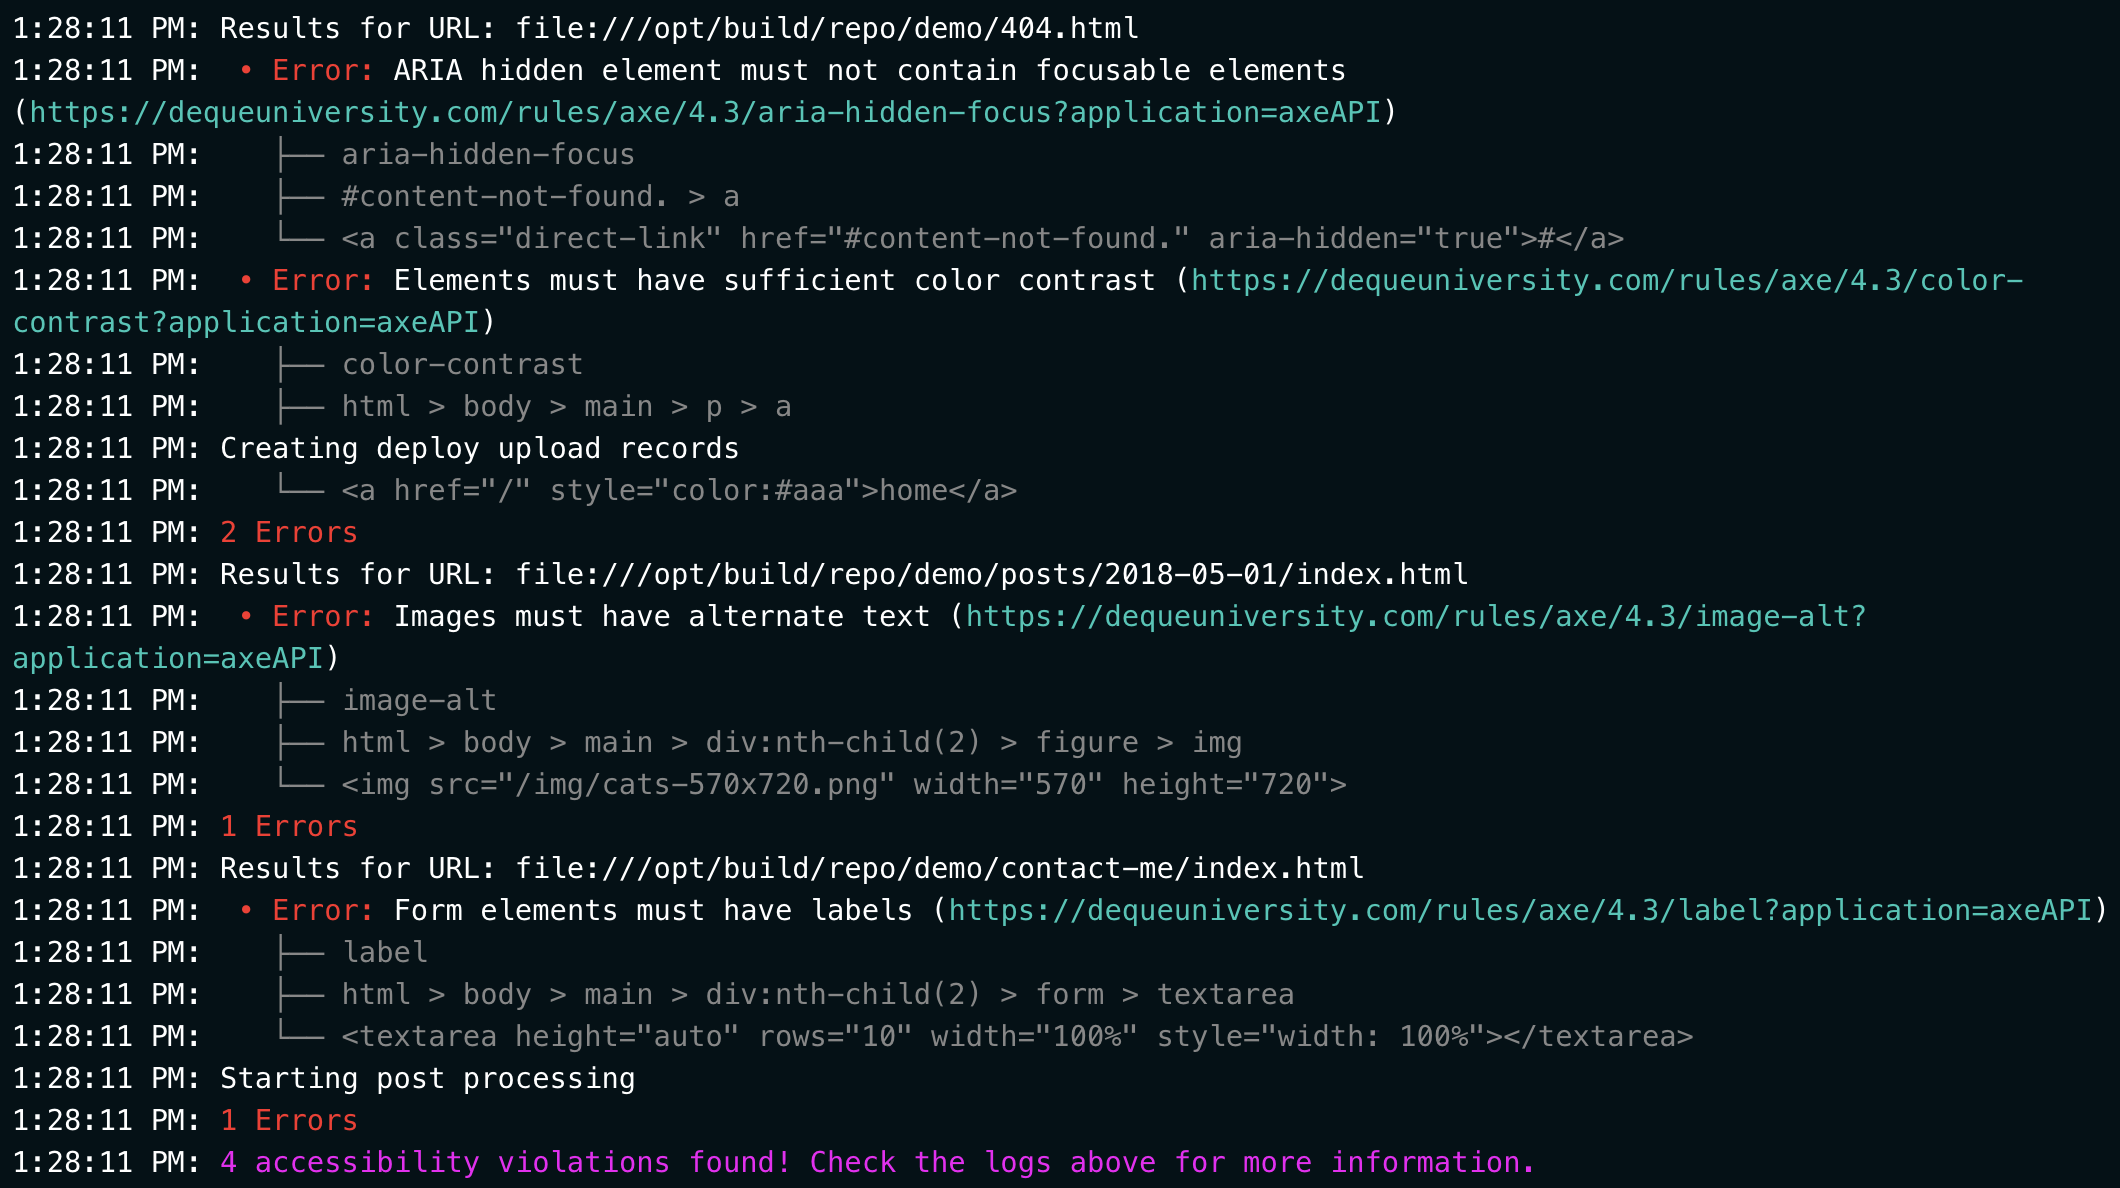
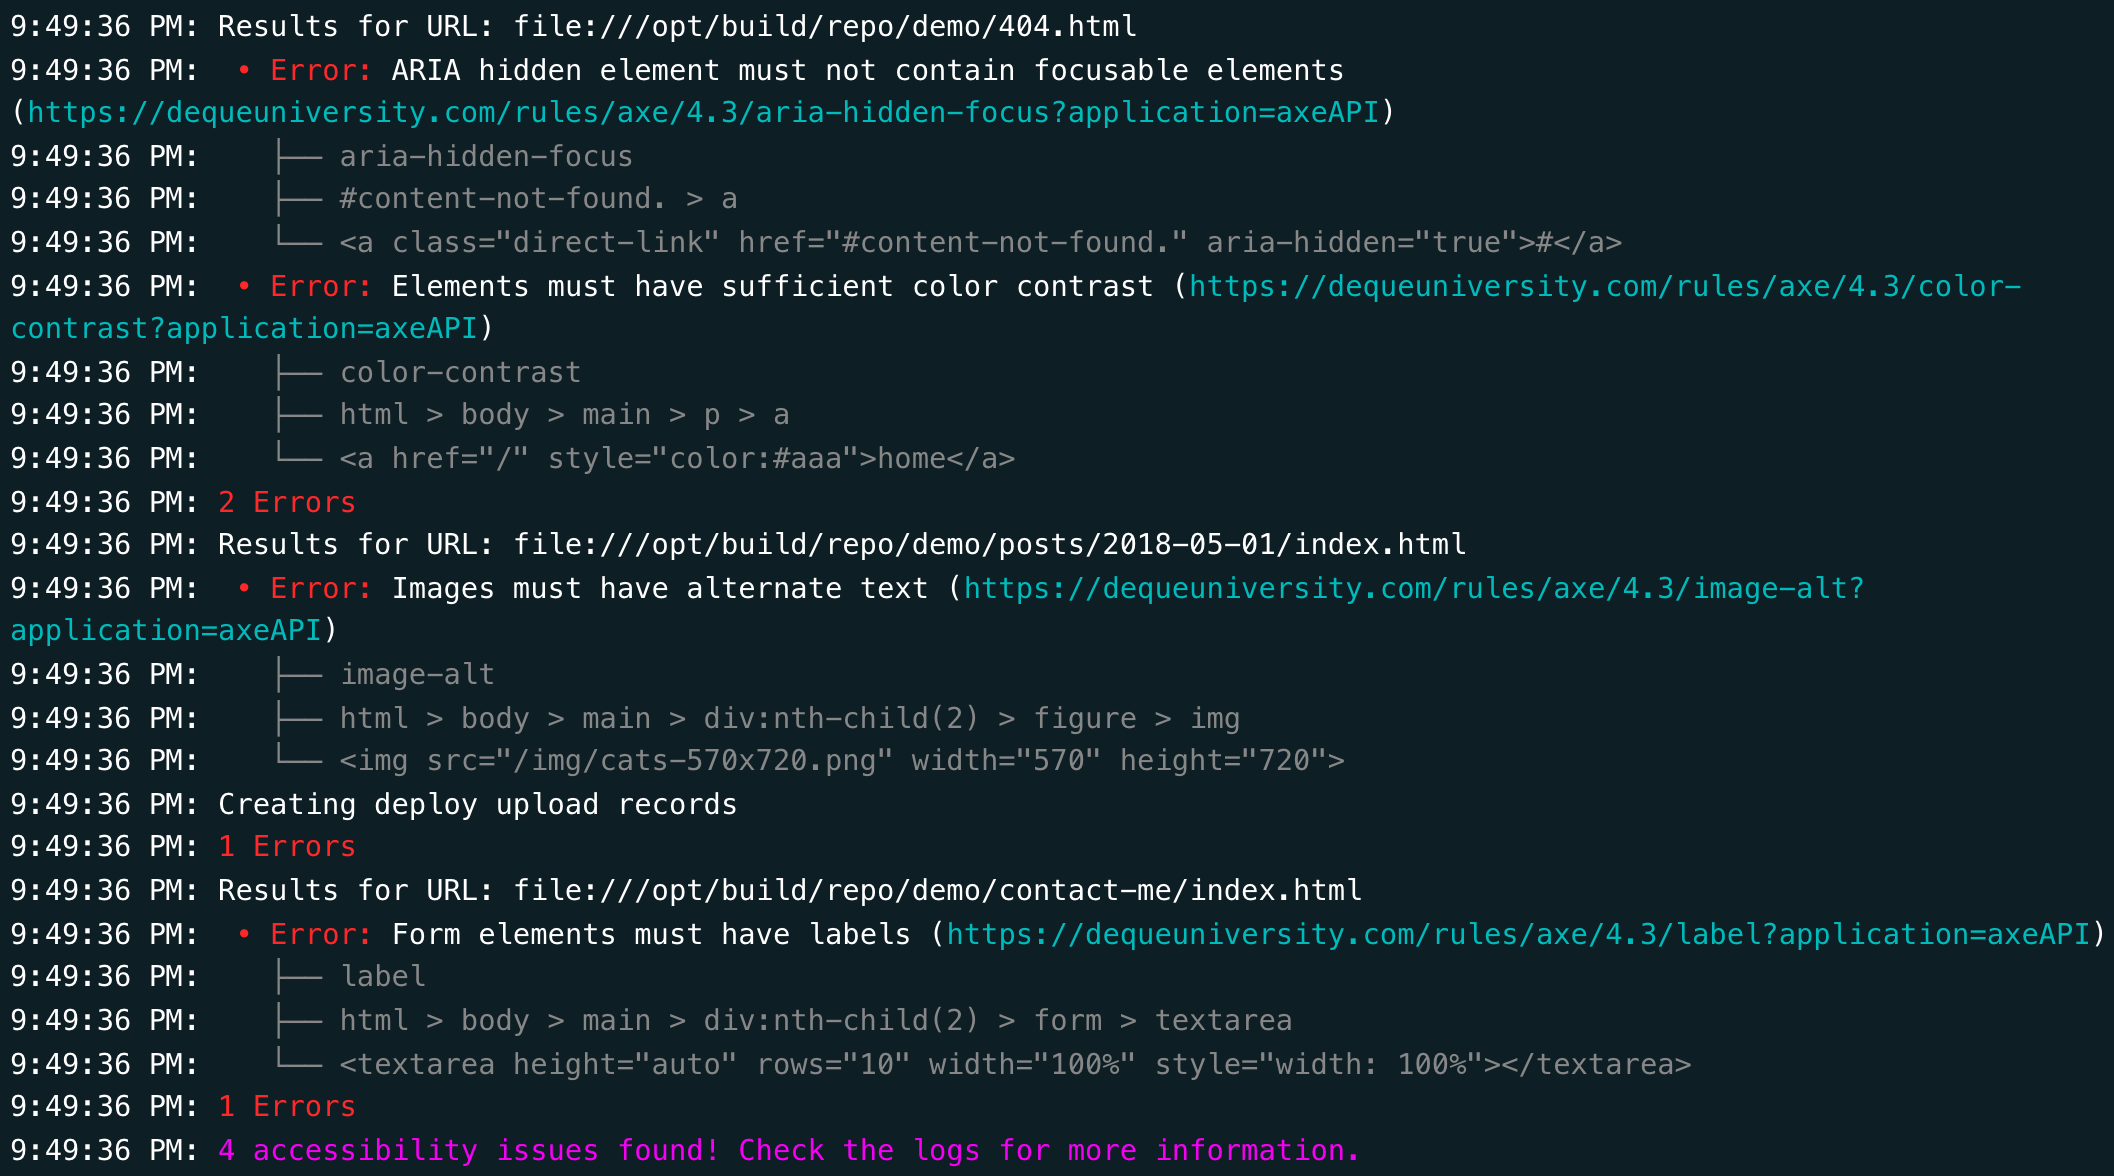
Update log screenshot and text copy

Changed region(s): [[0.0, 0.0, 0.9991, 1.0]]

diff --git a/README.md b/README.md
@@ -29,32 +29,31 @@ This is a screenshot of the build log for the demo site:
 <details>
 	<summary>Text from screnshot of demo site build log</summary>
 
-``` bash
- Results for URL: file:///opt/build/repo/demo/404.html
-1:28:11 PM:  • Error: ARIA hidden element must not contain focusable elements (https://dequeuniversity.com/rules/axe/4.3/aria-hidden-focus?application=axeAPI)
-1:28:11 PM:    ├── aria-hidden-focus
-1:28:11 PM:    ├── #content-not-found. > a
-1:28:11 PM:    └── <a class="direct-link" href="#content-not-found." aria-hidden="true">#</a>
-1:28:11 PM:  • Error: Elements must have sufficient color contrast (https://dequeuniversity.com/rules/axe/4.3/color-contrast?application=axeAPI)
-1:28:11 PM:    ├── color-contrast
-1:28:11 PM:    ├── html > body > main > p > a
-1:28:11 PM: Creating deploy upload records
-1:28:11 PM:    └── <a href="/" style="color:#aaa">home</a>
-1:28:11 PM: 2 Errors
-1:28:11 PM: Results for URL: file:///opt/build/repo/demo/posts/2018-05-01/index.html
-1:28:11 PM:  • Error: Images must have alternate text (https://dequeuniversity.com/rules/axe/4.3/image-alt?application=axeAPI)
-1:28:11 PM:    ├── image-alt
-1:28:11 PM:    ├── html > body > main > div:nth-child(2) > figure > img
-1:28:11 PM:    └── <img src="/img/cats-570x720.png" width="570" height="720">
-1:28:11 PM: 1 Errors
-1:28:11 PM: Results for URL: file:///opt/build/repo/demo/contact-me/index.html
-1:28:11 PM:  • Error: Form elements must have labels (https://dequeuniversity.com/rules/axe/4.3/label?application=axeAPI)
-1:28:11 PM:    ├── label
-1:28:11 PM:    ├── html > body > main > div:nth-child(2) > form > textarea
-1:28:11 PM:    └── <textarea height="auto" rows="10" width="100%" style="width: 100%"></textarea>
-1:28:11 PM: Starting post processing
-1:28:11 PM: 1 Errors
-1:28:11 PM: 4 accessibility violations found! Check the logs above for more information
+```
+9:49:36 PM: Results for URL: file:///opt/build/repo/demo/404.html
+9:49:36 PM:  • Error: ARIA hidden element must not contain focusable elements (https://dequeuniversity.com/rules/axe/4.3/aria-hidden-focus?application=axeAPI)
+9:49:36 PM:    ├── aria-hidden-focus
+9:49:36 PM:    ├── #content-not-found. > a
+9:49:36 PM:    └── <a class="direct-link" href="#content-not-found." aria-hidden="true">#</a>
+9:49:36 PM:  • Error: Elements must have sufficient color contrast (https://dequeuniversity.com/rules/axe/4.3/color-contrast?application=axeAPI)
+9:49:36 PM:    ├── color-contrast
+9:49:36 PM:    ├── html > body > main > p > a
+9:49:36 PM:    └── <a href="/" style="color:#aaa">home</a>
+9:49:36 PM: 2 Errors
+9:49:36 PM: Results for URL: file:///opt/build/repo/demo/posts/2018-05-01/index.html
+9:49:36 PM:  • Error: Images must have alternate text (https://dequeuniversity.com/rules/axe/4.3/image-alt?application=axeAPI)
+9:49:36 PM:    ├── image-alt
+9:49:36 PM:    ├── html > body > main > div:nth-child(2) > figure > img
+9:49:36 PM:    └── <img src="/img/cats-570x720.png" width="570" height="720">
+9:49:36 PM: Creating deploy upload records
+9:49:36 PM: 1 Errors
+9:49:36 PM: Results for URL: file:///opt/build/repo/demo/contact-me/index.html
+9:49:36 PM:  • Error: Form elements must have labels (https://dequeuniversity.com/rules/axe/4.3/label?application=axeAPI)
+9:49:36 PM:    ├── label
+9:49:36 PM:    ├── html > body > main > div:nth-child(2) > form > textarea
+9:49:36 PM:    └── <textarea height="auto" rows="10" width="100%" style="width: 100%"></textarea>
+9:49:36 PM: 1 Errors
+9:49:36 PM: 4 accessibility issues found! Check the logs for more information.
 ```
 </details>
 
